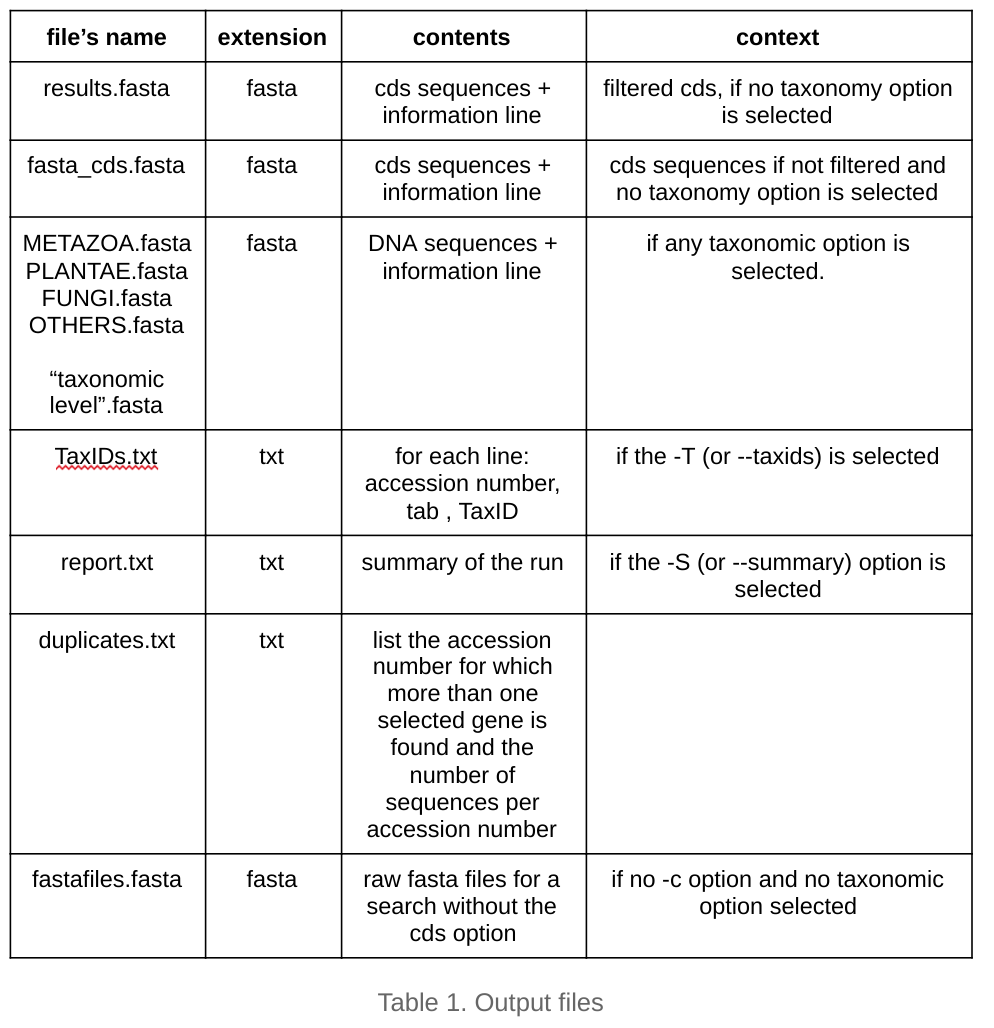
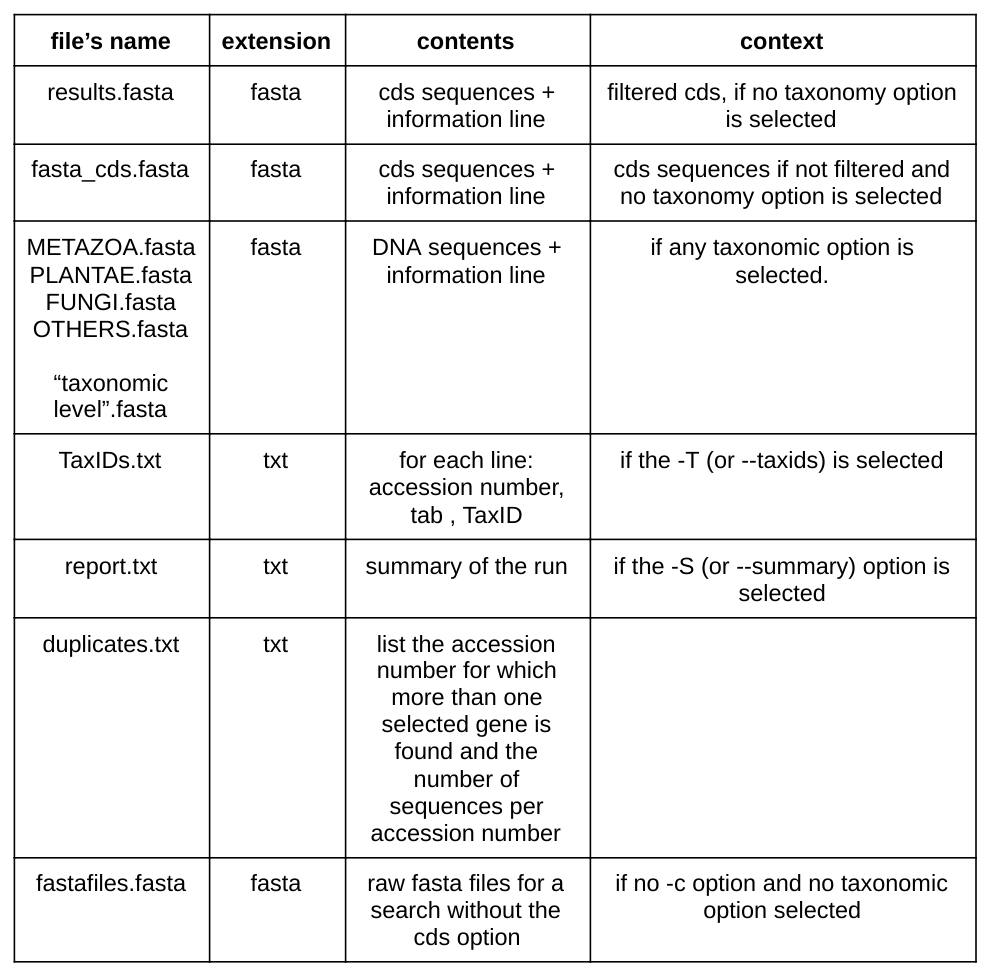
replaced fasta_cds by results for the dl with cds option

diff --git a/functions.py b/functions.py
@@ -312,7 +312,7 @@ def cdsfasta(params, path, dictid, dicttaxo, QUERY, OPTIONS=None):
 
         ##append the feature table file in a text file
         if not dicttaxo and not genelist:
-            with open(path + "/fasta_cds.fasta", 'a') as dl:
+            with open(path + "/results.fasta", 'a') as dl:
                 dl.write(result)
             result = result.split(">lcl|")[1:]
             sublist = [r.split("_cds")[0] for r in result]
